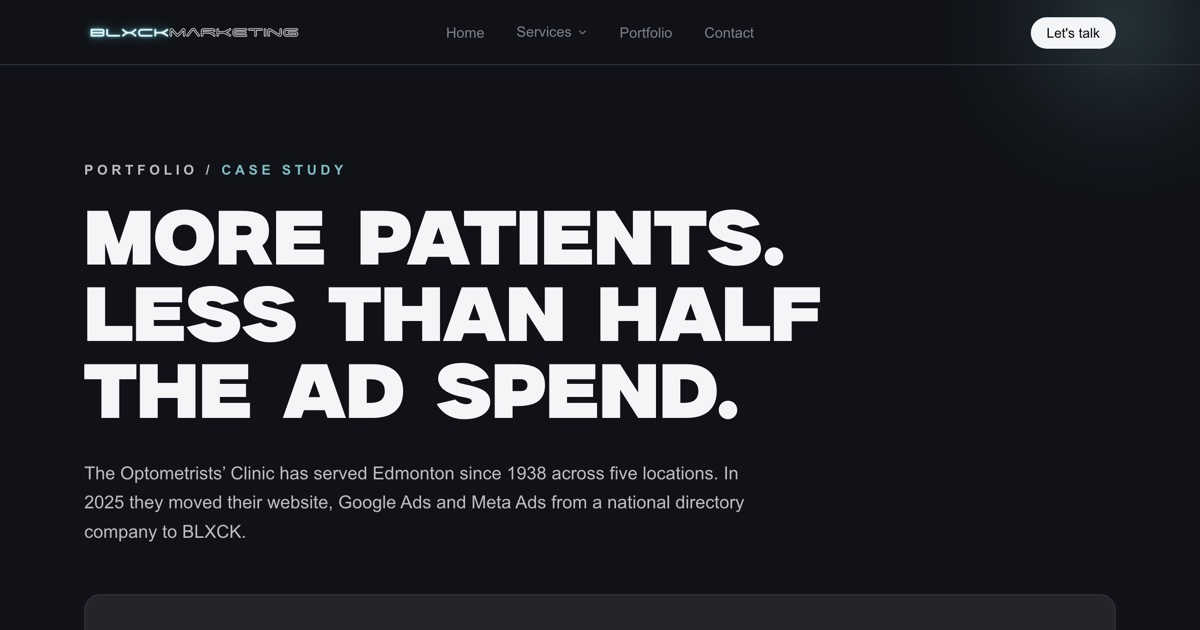
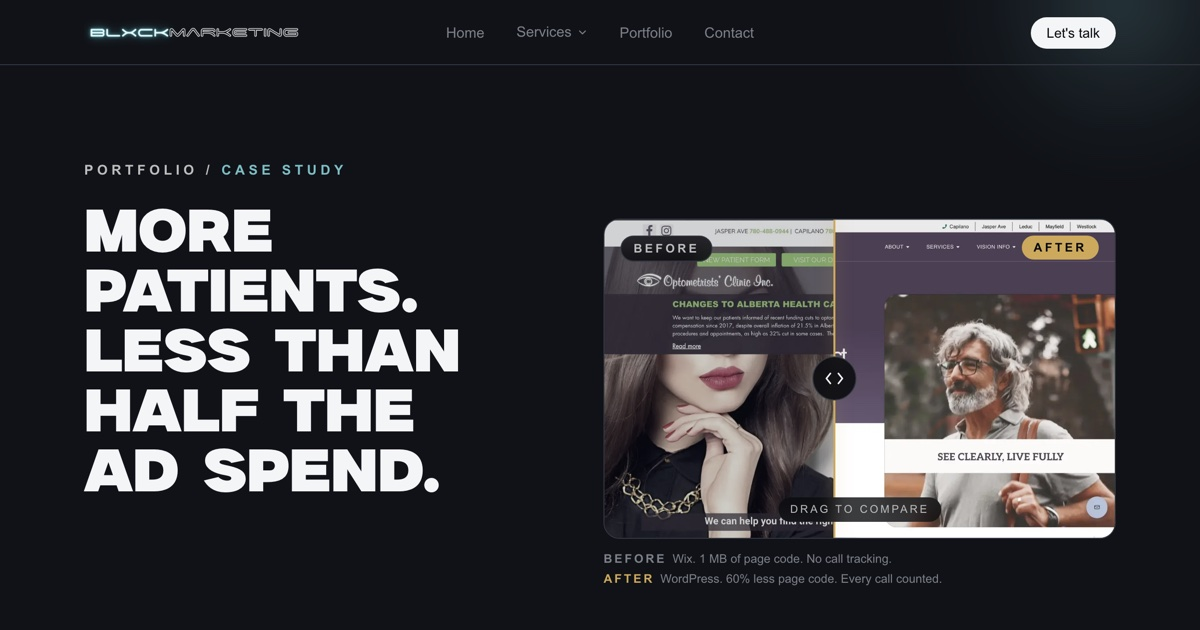
Case study: fix slider direction, green trend arrows on improved metrics
After image now reveals on the right of the divider to match the labels.
New --color-good token; ▲/▼ marks on hero tiles, comparison deltas and
the Meta CTR tile. Share image refreshed from the new hero.

diff --git a/src/app/optometrists-case-study/page.tsx b/src/app/optometrists-case-study/page.tsx
@@ -17,6 +17,7 @@ import { Eclipse } from "@/components/ui/Eclipse";
 import { SectionHeader } from "@/components/ui/SectionHeader";
 import { AuditBanner } from "@/components/home/AuditBanner";
 import { MonthlyBars } from "@/components/case-study/MonthlyBars";
+import { TrendMark } from "@/components/case-study/TrendMark";
 import { BeforeAfterSlider } from "@/components/case-study/BeforeAfterSlider";
 
 const title = "Optometrists' Clinic Case Study";
@@ -88,7 +89,7 @@ export default function OptometristsCaseStudy() {
               <BeforeAfterSlider
                 before={{ src: "/work/optometrists-before.webp", alt: "The previous Optometrists' Clinic homepage on Wix" }}
                 after={{ src: "/work/optometrists-after.webp", alt: "The new Optometrists' Clinic homepage built by BLXCK" }}
-                initial={55}
+                initial={45}
               />
               <div className="mt-3 flex flex-wrap justify-between gap-x-6 gap-y-1 text-xs text-lo">
                 <span><span className="mr-1.5 font-semibold uppercase tracking-[0.18em]">Before</span>Wix. 1 MB of page code. No call tracking.</span>
@@ -101,7 +102,8 @@ export default function OptometristsCaseStudy() {
             {headline.map((s) => (
               <RevealItem key={s.label} className="h-full">
                 <div className="flex h-full flex-col gap-2 bg-void p-6">
-                  <span className="font-heading text-4xl leading-none text-teal tabular-nums md:text-5xl">
+                  <span className="flex items-center gap-2 font-heading text-4xl leading-none text-teal tabular-nums md:text-5xl">
+                    {s.trend && <TrendMark trend={s.trend} size="lg" />}
                     {s.value}
                   </span>
                   <span className="mt-2 text-sm font-semibold text-hi">{s.label}</span>
@@ -134,7 +136,7 @@ export default function OptometristsCaseStudy() {
                     <span className="text-sm tracking-[0.2em]">{compare.nowLabel}</span>
                     <span className="block normal-case tracking-normal text-gold/70">{compare.nowPeriod}</span>
                   </th>
-                  <th className="px-5 py-4 text-right font-semibold text-gold">Change</th>
+                  <th className="px-5 py-4 text-right font-semibold text-good">Change</th>
                 </tr>
               </thead>
               <tbody className="tabular-nums">
@@ -143,14 +145,19 @@ export default function OptometristsCaseStudy() {
                     <td className="px-5 py-3.5 text-hi">{r.k}</td>
                     <td className="px-5 py-3.5 text-right text-lo">{r.then}</td>
                     <td className="bg-gold/[0.08] px-5 py-3.5 text-right font-semibold text-gold">{r.now}</td>
-                    <td className="px-5 py-3.5 text-right font-semibold text-gold">{r.delta}</td>
+                    <td className="px-5 py-3.5 text-right font-semibold text-good">
+                      <span className="inline-flex items-center gap-1.5">
+                        <TrendMark trend={r.trend} />
+                        {r.delta}
+                      </span>
+                    </td>
                   </tr>
                 ))}
               </tbody>
             </table>
           </Reveal>
           <p className="mt-4 text-xs leading-relaxed text-lo">
-            Spend and cost figures are indexed to the previous agency at 100%. Previous-agency figures come from that agency&rsquo;s own year-end reports.
+            <span className="text-good">▲</span> higher is better · <span className="text-good">▼</span> lower is better. Spend and cost figures are indexed to the previous agency at 100%. Previous-agency figures come from that agency&rsquo;s own year-end reports.
           </p>
         </div>
       </section>
@@ -258,7 +265,10 @@ export default function OptometristsCaseStudy() {
             {meta.map((s) => (
               <RevealItem key={s.label} className="h-full">
                 <div className="flex h-full flex-col gap-2 bg-void p-6">
-                  <span className="font-heading text-4xl leading-none text-hi tabular-nums">{s.value}</span>
+                  <span className="flex items-center gap-2 font-heading text-4xl leading-none text-hi tabular-nums">
+                    {s.trend && <TrendMark trend={s.trend} size="lg" />}
+                    {s.value}
+                  </span>
                   <span className="mt-2 text-sm font-semibold text-hi">{s.label}</span>
                   <span className="text-xs leading-relaxed text-lo">{s.note}</span>
                 </div>

diff --git a/src/lib/case-studies/optometrists.ts b/src/lib/case-studies/optometrists.ts
@@ -43,10 +43,12 @@ export const siteContacts = [
 ];
 
 /** Headline tiles. Four, each true at a glance, no dollars. */
-export const headline = [
-  { value: "+82%", label: "Patient contacts per month from Google Ads", note: "vs. the previous agency's last 12 months" },
-  { value: "59%", label: "Less ad spend to get there", note: "Same five clinics, same market" },
-  { value: "78%", label: "Lower cost per patient contact", note: "Calls, forms, emails and directions" },
+export type Trend = "up" | "down";
+
+export const headline: { value: string; label: string; note: string; trend?: Trend }[] = [
+  { value: "82%", label: "More patient contacts per month from Google Ads", note: "vs. the previous agency's last 12 months", trend: "up" },
+  { value: "59%", label: "Less ad spend to get there", note: "Same five clinics, same market", trend: "down" },
+  { value: "78%", label: "Lower cost per patient contact", note: "Calls, forms, emails and directions", trend: "down" },
   { value: "10,100+", label: "Patient contacts from the website", note: "Since relaunch, Apr 2025 – Sep 2026" },
 ];
 
@@ -61,20 +63,20 @@ export const compare = {
   nowLabel: "After",
   nowPeriod: "BLXCK · Oct 2025 – Sep 2026",
   rows: [
-    { k: "Google Ads · patient contacts per month", then: "317", now: "575", delta: "+82%" },
-    { k: "Google Ads · monthly spend", then: "100%", now: "41%", delta: "−59%" },
-    { k: "Google Ads · cost per contact", then: "100%", now: "22%", delta: "−78%" },
-    { k: "Google Ads · click-through rate", then: "3.9%", now: "4.7%", delta: "+0.8 pts" },
-    { k: "Google Ads · cost per click", then: "100%", now: "45%", delta: "−55%" },
-    { k: "Meta · clicks to the site per month", then: "584", now: "720", delta: "+23%" },
-    { k: "Meta · click-through rate", then: "0.47%", now: "1.14%", delta: "2.4×" },
-    { k: "Meta · cost per click", then: "100%", now: "76%", delta: "−24%" },
-  ],
+    { k: "Google Ads · patient contacts per month", then: "317", now: "575", delta: "82%", trend: "up" },
+    { k: "Google Ads · monthly spend", then: "100%", now: "41%", delta: "59%", trend: "down" },
+    { k: "Google Ads · cost per contact", then: "100%", now: "22%", delta: "78%", trend: "down" },
+    { k: "Google Ads · click-through rate", then: "3.9%", now: "4.7%", delta: "0.8 pts", trend: "up" },
+    { k: "Google Ads · cost per click", then: "100%", now: "45%", delta: "55%", trend: "down" },
+    { k: "Meta · clicks to the site per month", then: "584", now: "720", delta: "23%", trend: "up" },
+    { k: "Meta · click-through rate", then: "0.47%", now: "1.14%", delta: "2.4×", trend: "up" },
+    { k: "Meta · cost per click", then: "100%", now: "76%", delta: "24%", trend: "down" },
+  ] as { k: string; then: string; now: string; delta: string; trend: Trend }[],
 };
 
 /** Meta Ads, Jan 2025 – Sep 2026. No lead events tracked on Meta; reach + clicks. */
-export const meta = [
+export const meta: { value: string; label: string; note: string; trend?: Trend }[] = [
   { value: "485K", label: "People reached by the clinic's video ad", note: "One always-on campaign" },
   { value: "15,000+", label: "Clicks through to the website", note: "24% cheaper per click than before" },
-  { value: "2.4×", label: "Click-through rate vs. the previous agency", note: "0.47% → 1.14%" },
+  { value: "2.4×", label: "Click-through rate vs. the previous agency", note: "0.47% → 1.14%", trend: "up" },
 ];

diff --git a/src/components/case-study/BeforeAfterSlider.tsx b/src/components/case-study/BeforeAfterSlider.tsx
@@ -6,7 +6,7 @@ import { useCallback, useId, useRef, useState } from "react";
 type Props = {
   before: { src: string; alt: string };
   after: { src: string; alt: string };
-  /** Starting divider position, 0–100 (percent of width showing "after"). */
+  /** Starting divider position, 0–100 (percent of width showing "before", on the left). */
   initial?: number;
   className?: string;
 };
@@ -66,7 +66,7 @@ export function BeforeAfterSlider({ before, after, initial = 50, className = "" 
         {/* After: on top, clipped to the divider */}
         <div
           className="absolute inset-0"
-          style={{ clipPath: `inset(0 ${100 - pos}% 0 0)` }}
+          style={{ clipPath: `inset(0 0 0 ${pos}%)` }}
           aria-hidden
         >
           <Image
@@ -116,7 +116,7 @@ export function BeforeAfterSlider({ before, after, initial = 50, className = "" 
           value={Math.round(pos)}
           onChange={(e) => setPos(Number(e.target.value))}
           className="absolute inset-x-0 bottom-0 h-full w-full cursor-grab opacity-0"
-          aria-valuetext={`${Math.round(pos)}% after`}
+          aria-valuetext={`${100 - Math.round(pos)}% after`}
         />
       </div>
     </div>

diff --git a/src/components/case-study/TrendMark.tsx b/src/components/case-study/TrendMark.tsx
@@ -1,0 +1,23 @@
+import type { Trend } from "@/lib/case-studies/optometrists";
+
+/**
+ * Green trend glyph: ▲ for a metric that went up, ▼ for one that went down.
+ * Only used on improved metrics, so the colour always means "better".
+ */
+export function TrendMark({ trend, size = "sm" }: { trend: Trend; size?: "sm" | "lg" }) {
+  const px = size === "lg" ? 22 : 12;
+  const label = trend === "up" ? "up" : "down";
+  return (
+    <svg
+      width={px}
+      height={px}
+      viewBox="0 0 12 12"
+      role="img"
+      aria-label={label}
+      className="shrink-0 text-good"
+      style={{ transform: trend === "down" ? "rotate(180deg)" : undefined }}
+    >
+      <path d="M6 1.5 11 10H1z" fill="currentColor" />
+    </svg>
+  );
+}

diff --git a/src/app/globals.css b/src/app/globals.css
@@ -20,6 +20,8 @@
   --color-lavender: #b794df;
   --color-gold: #cca95d;
   --color-silver: #bcbebe;
+  /* Semantic "improved" colour for deltas and trend arrows. */
+  --color-good: #5fd19a;
 
   /* Text */
   --color-hi: #f4f5f7;
